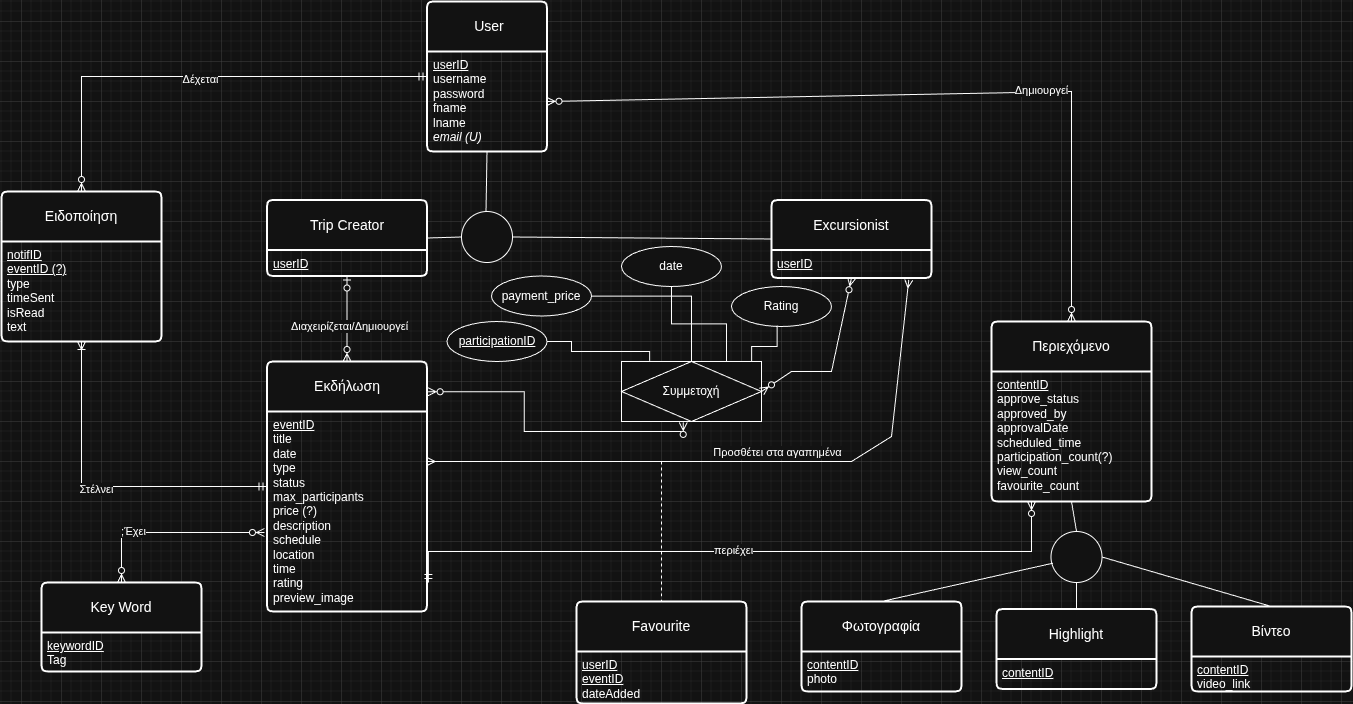
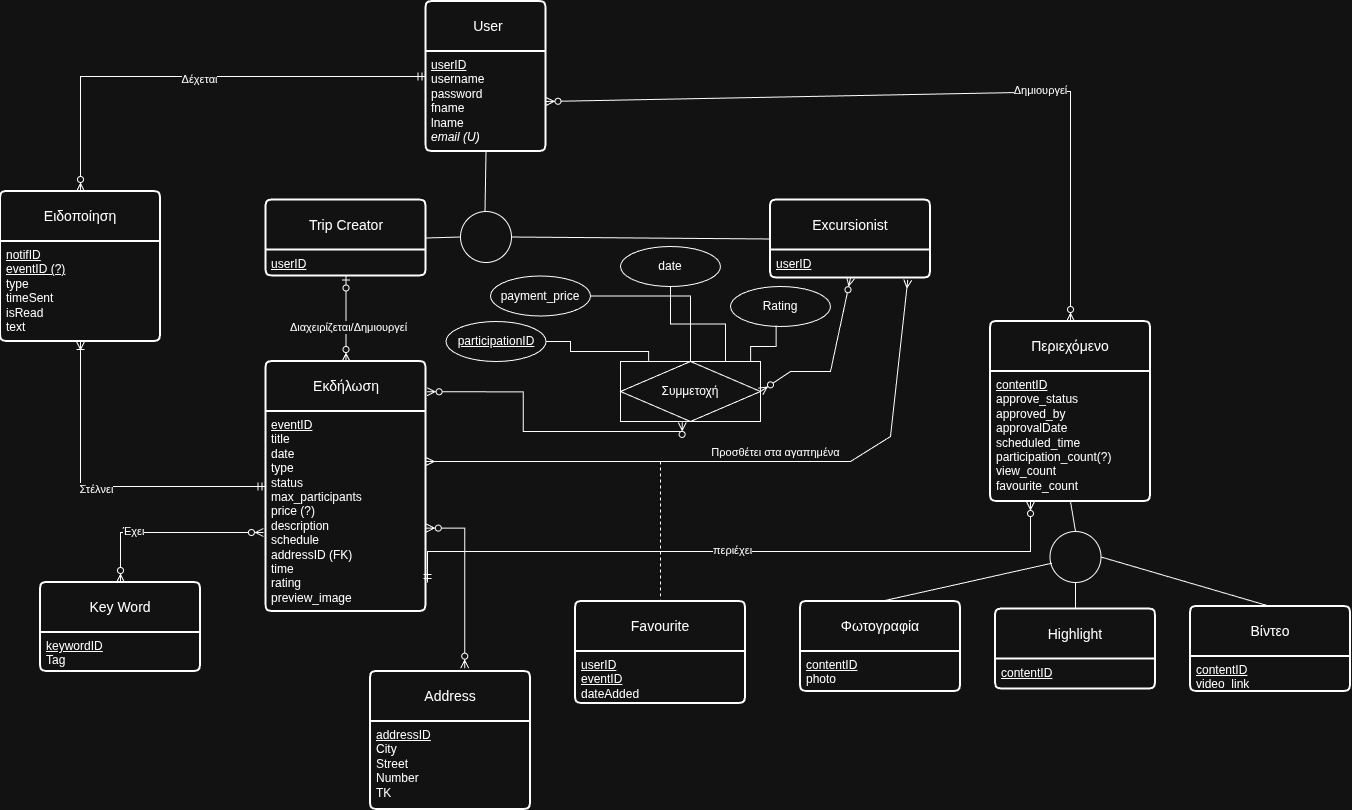
Changed location attribute to addressID and added an address entity to  obey 3NF normalization rules

diff --git a/docs/travelPlatformER.md b/docs/travelPlatformER.md
@@ -1,4 +1,4 @@
-# Δραστηριότητα Β: Μοντέλο Οντοτήτων-Συσχετίσεων (E-R Diagram)
+# Μοντέλο Οντοτήτων-Συσχετίσεων (E-R Diagram)
 
 ## 1. ER Diagram
 
@@ -18,3 +18,9 @@
 * **Φωτογραφία**: Υποσύνολο του Περιεχομένου, περίεχει το αρχείο της φωτογραφίας του περιεχομένου.
 * **Highlight:** Ανεβασμένο περιεχόμενο απο τον Excursionist.
 * **Βίντεο**: Υποσύνολο του Περιεχομένου, περιέχει το link για το βίντεο του περιεχομένου. Διαλέχθηκε link για λόγους απλότητας στο σύστημα.
+
+## 3. Περιγραφή Αρχικτεκτονικών Επιλογών και σκεπτικόυ της Βάσης Δεδομένων
+
+#### 3.1. Διαχωρισμός Χρηστών σε ISA
+
+Με τη χρήση κοινών στοιχείων στη βασική οντότητα  **User** , επιτρέπουμε την ύπαρξη υβριδικών χρηστών (π.χ. ένας εκδρομέας που γίνεται δημιουργός) χωρίς διπλότυπα δεδομένα, εξασφαλίζοντας την ακεραιότητα του συστήματος.